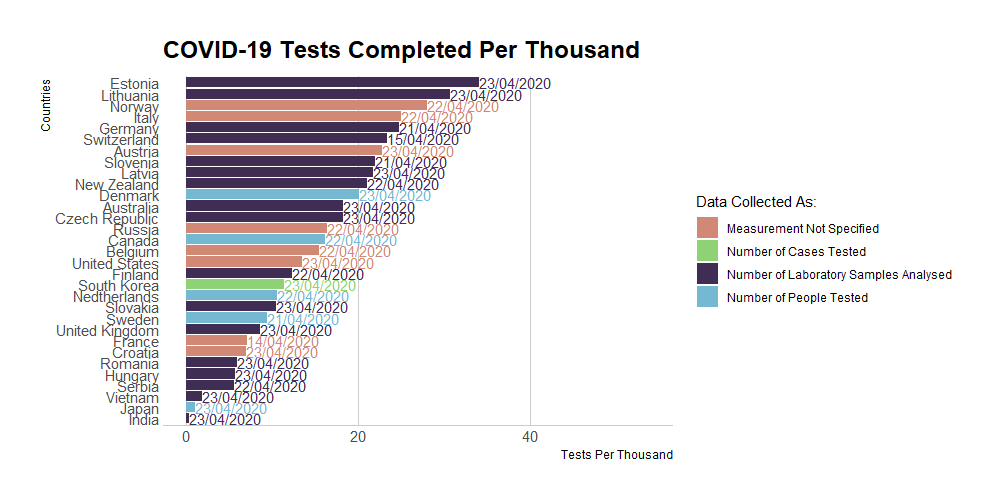
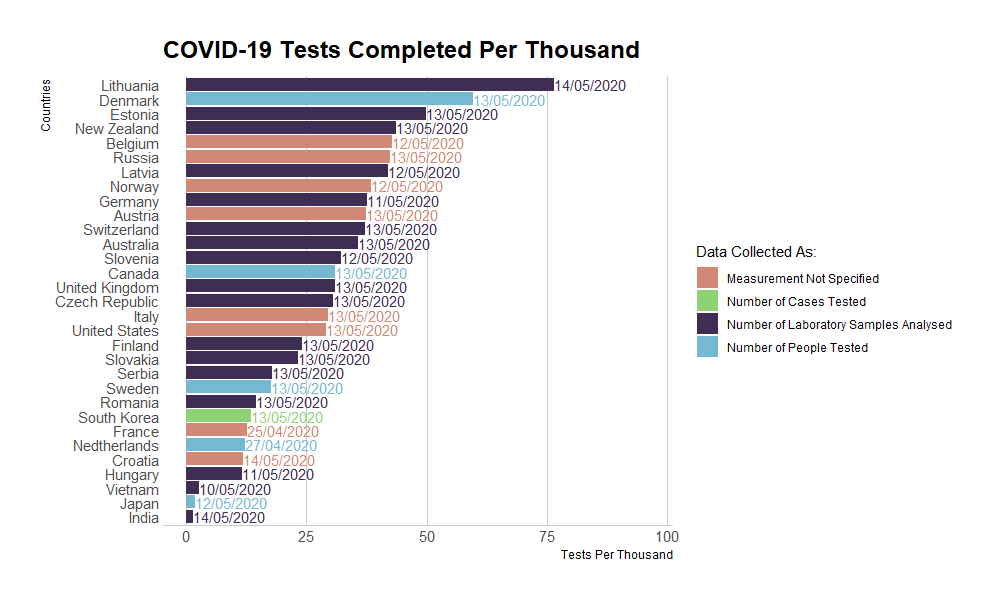
Updates 14/05/2020

diff --git a/Testtrack.py b/Testtrack.py
@@ -84,7 +84,6 @@ def TrackChanges(Country):
         tables = tabula.read_pdf(downloadtext)
         df = tables[0]
         testnumber = df.iloc[-1,-1]
-        print(testnumber)
         if len(str(testnumber)) > 10:
             raise Exception(f"{Country} value of {testnumber} probably too large.")
     if Country == "NOR":
@@ -93,10 +92,8 @@ def TrackChanges(Country):
         page = urllib.request.urlopen(req)
         soup = BeautifulSoup(page, 'lxml')
         testnumber = soup.find("div", class_="fhi-key-figure-number").get_text()
-        print(testnumber)
         testdate = soup.find("div", class_="fhi-key-figure-updated").get_text()
         testdate = re.findall('(\d+.*?\d+)', testdate)[0]
-        print(testdate)
     if Country == "DEN":
         page = urllib.request.urlopen(pages["DEN"])
         soup = BeautifulSoup(page, 'html.parser')
@@ -107,7 +104,6 @@ def TrackChanges(Country):
         page = urllib.request.urlopen(pages["AUST"])
         soup = BeautifulSoup(page, 'html.parser')
         text = soup.find("div", class_="table-responsive").find("table").findAll("tr")[-1].findAll("td")[-1].get_text()
-        print(text)
         testnumber = text
         testdate = soup.find("time").string
     if Country == "JPN":
@@ -149,7 +145,6 @@ def TrackChanges(Country):
         testnumber = soup.find(id="count-test").string
         text = soup.find(id="last-modified-tests").string
         testdate = search_dates(text)[0][1]
-        print(testdate)
     if Country == "EST":
         page = urllib.request.urlopen(pages["EST"])
         soup = BeautifulSoup(page, 'html.parser')
@@ -176,7 +171,6 @@ def TrackChanges(Country):
         page = urllib.request.urlopen(pages["LIT"])
         soup = BeautifulSoup(page, 'html.parser')
         text = soup.find("div", class_="text").findAll("li")[-2].get_text()
-        print(text)
         testnumber = re.findall('[0-9]+', text)
         testdate = soup.find("div", class_="date").string.split(" ")[3]
     # if Country == "NED": #weekly now
@@ -226,10 +220,8 @@ def TrackChanges(Country):
         html = str(driver.find_elements_by_tag_name("html")[0].get_attribute('innerHTML'))
         soup = BeautifulSoup(html, 'html.parser')
         testnumber = soup.find("h3", class_="govuk-heading-l govuk-!-margin-bottom-3").get_text()
-        print(testnumber)
         testdate = soup.find("p", class_="govuk-body").get_text()
         testdate = search_dates(testdate)[0][1]
-        print(testdate)
 
     if Country == "SLI":
         page = urllib.request.urlopen(pages["SLI"])
@@ -274,7 +266,6 @@ def TrackChanges(Country):
         testdate = search_dates(soup.find("li", class_="time_info").string)[0][1]
         text = soup.find("div", class_="page_content").get_text()
         testnumber = re.findall('(\d+\.\d+ )(?=testiranja)', text)[0]
-        print(testnumber)
     if Country == "FIN":  # needtoget selenium for this (javascript blocker)
         driver = webdriver.Chrome()
         driver.get(pages["FIN"])
@@ -296,9 +287,7 @@ def TrackChanges(Country):
         html = str(driver.find_elements_by_tag_name("html")[0].get_attribute('innerHTML'))
         soup = BeautifulSoup(html, 'html.parser')
         testnumber = soup.find("div", class_="scf-text").find("span", class_="counter").string
-        print(test)
         testdate = search_dates(soup.find("div", class_="elements-title mb-30").find("h2").string)
-        print(testdate)
     if Country == "NZ":
         page = urllib.request.urlopen(pages["NZ"])
         soup = BeautifulSoup(page, 'html.parser')
